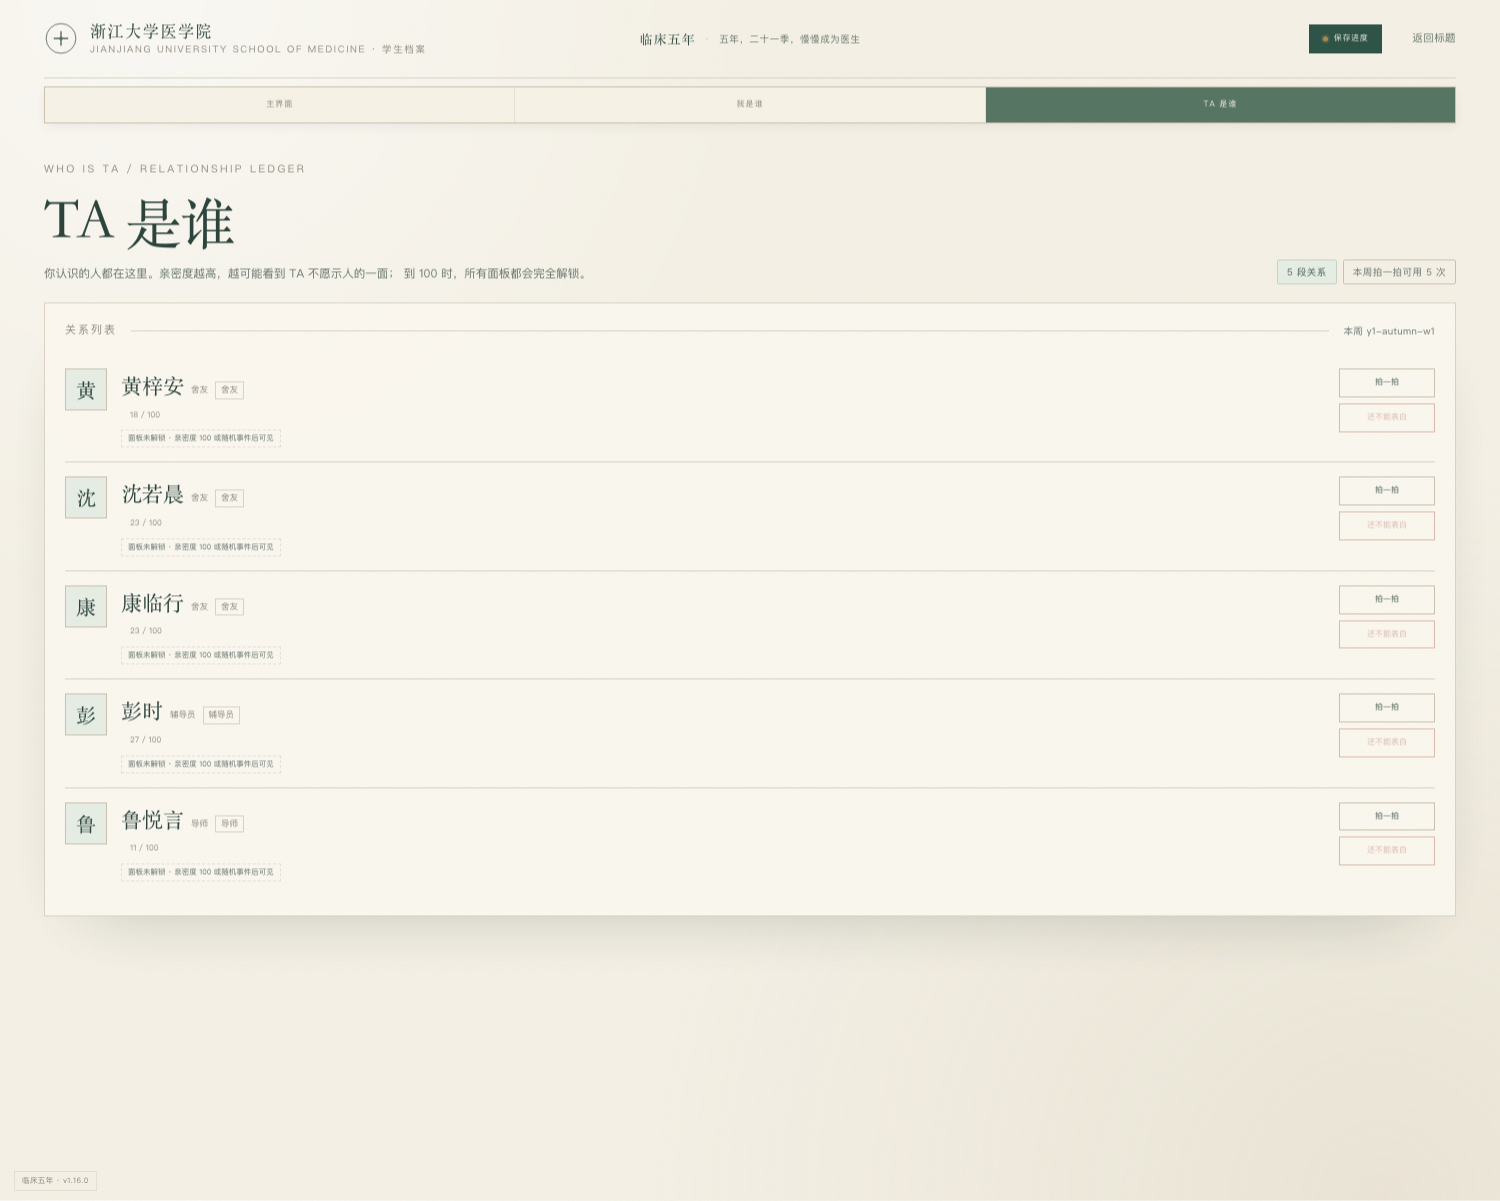
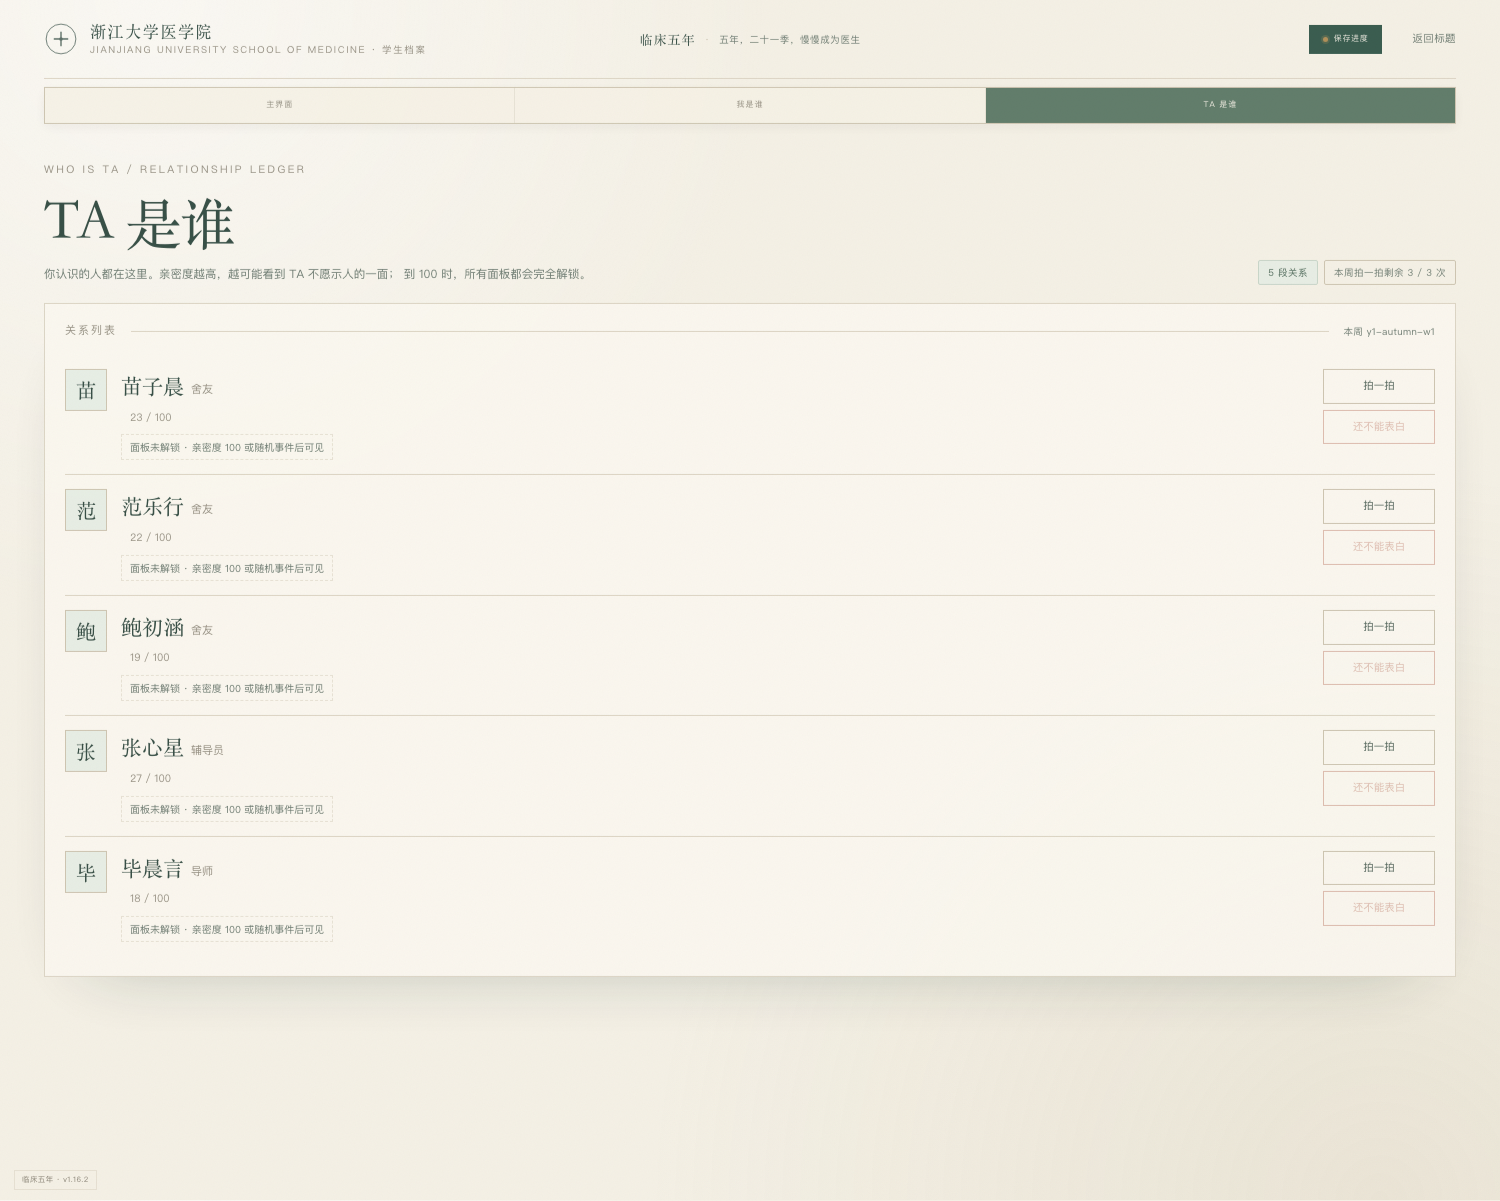
style: enlarge social interface text for readability

diff --git a/src/styles.css b/src/styles.css
@@ -7355,3 +7355,134 @@ body.dinner-open {
     grid-template-columns: 1fr;
   }
 }
+
+/* ---------- social readability pass ---------- */
+
+.whois-name-row > span {
+  font-size: 12px;
+}
+
+.whois-kind {
+  font-size: 11px;
+}
+
+.whois-intimacy > span {
+  font-size: 11.5px;
+}
+
+.whois-stats > span {
+  padding: 4px 8px;
+  font-size: 11px;
+}
+
+.whois-hidden {
+  font-size: 11px;
+}
+
+.whois-message {
+  font-size: 11px;
+}
+
+.whois-action {
+  min-width: 116px;
+  padding: 9px 12px;
+  font-size: 11.5px;
+  line-height: 1.4;
+}
+
+.roommate-top p {
+  font-size: 12px;
+}
+
+.roommate-intimacy {
+  font-size: 12px;
+}
+
+.roommate-action {
+  min-height: 40px;
+  font-size: 12px;
+  line-height: 1.6;
+}
+
+.roommate-stats span {
+  padding: 4px 7px;
+  font-size: 11px;
+}
+
+.roommate-unknown {
+  font-size: 11px;
+}
+
+.tab-link {
+  font-size: 12px;
+}
+
+.dinner-eyebrow {
+  font-size: 10.5px;
+}
+
+.dinner-head p {
+  font-size: 12px;
+  line-height: 1.65;
+}
+
+.dinner-person-name {
+  font-size: 18px;
+}
+
+.dinner-person-name small {
+  font-size: 11px;
+}
+
+.dinner-person-status {
+  font-size: 11px;
+}
+
+.dinner-reason {
+  font-size: 11px;
+  line-height: 1.6;
+}
+
+.dinner-footer > div:first-child span,
+.dinner-footer > div:first-child small {
+  font-size: 10.5px;
+}
+
+.dinner-summary {
+  font-size: 11.5px;
+}
+
+.dinner-empty {
+  font-size: 12px;
+}
+
+@media (max-width: 820px) {
+  .whois-action {
+    min-width: 0;
+    padding: 8px 10px;
+    font-size: 10.5px;
+  }
+
+  .whois-name-row > span,
+  .whois-kind,
+  .whois-intimacy > span {
+    font-size: 10.5px;
+  }
+
+  .whois-stats > span,
+  .whois-hidden {
+    font-size: 10.5px;
+  }
+
+  .roommate-top p,
+  .roommate-action,
+  .roommate-unknown {
+    font-size: 11px;
+  }
+
+  .dinner-head p,
+  .dinner-reason,
+  .dinner-summary {
+    font-size: 11px;
+  }
+}

diff --git a/index.html b/index.html
@@ -10,7 +10,7 @@
   </head>
   <body>
     <div id="root"></div>
-    <div id="app-version">临床五年 · v1.16.1</div>
+    <div id="app-version">临床五年 · v1.16.2</div>
     <script type="module" src="/src/main.tsx"></script>
   </body>
 </html>

diff --git a/README.md b/README.md
@@ -132,4 +132,4 @@ scripts/          Playwright 本地截图与流程检查脚本
 - 当前为 UI 与系统初稿，数值平衡、事件文案与医学内容仍需后续迭代。
 
 
-当前页面构建版本：**v1.16.1**；版本号在桌面端固定显示在网页左下角，移动端显示在页面底部。
+当前页面构建版本：**v1.16.2**；版本号在桌面端固定显示在网页左下角，移动端显示在页面底部。
